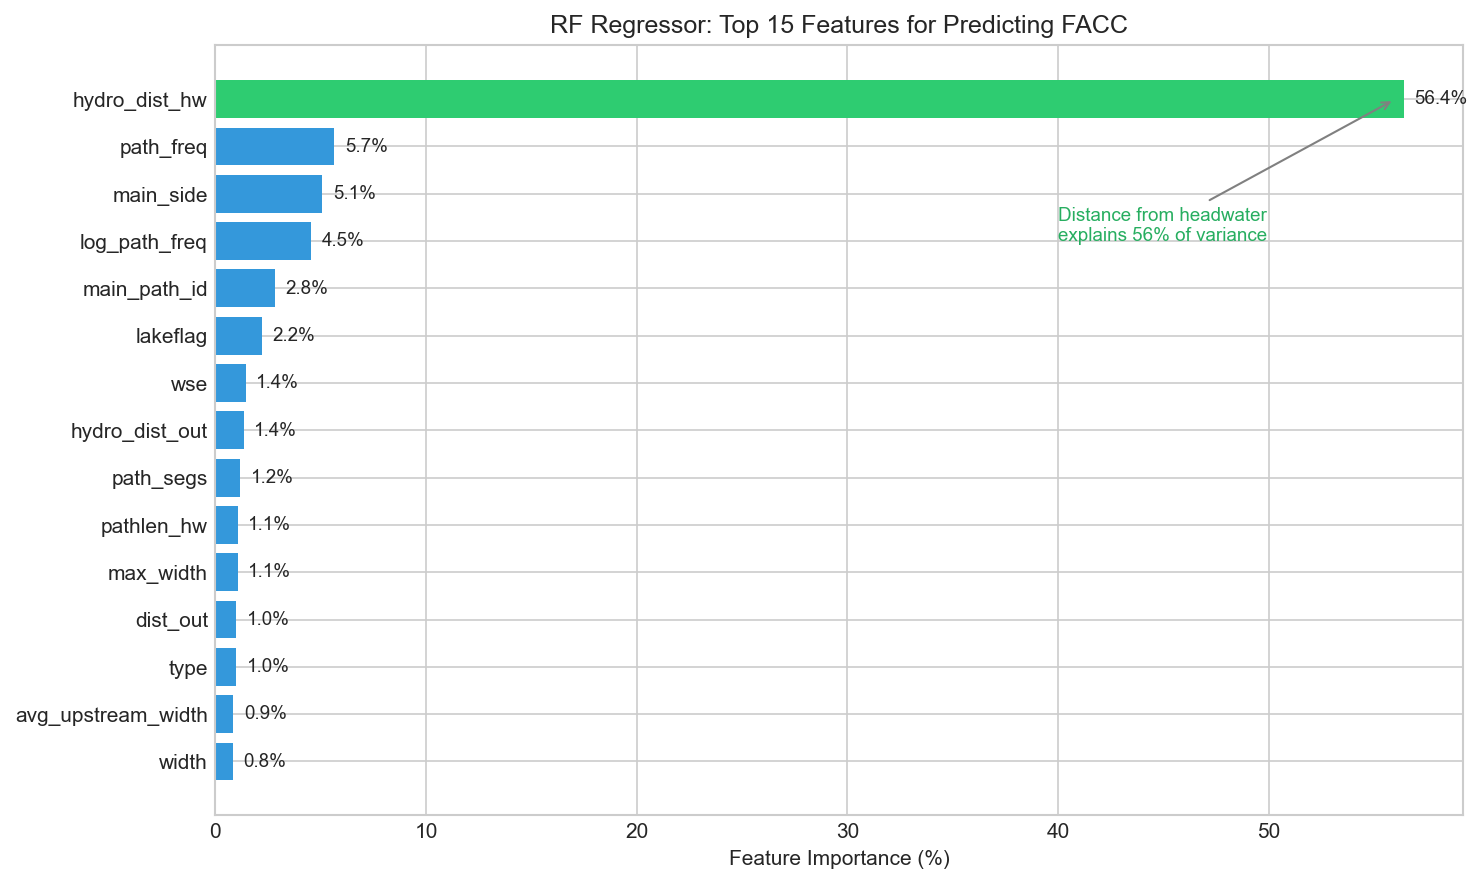
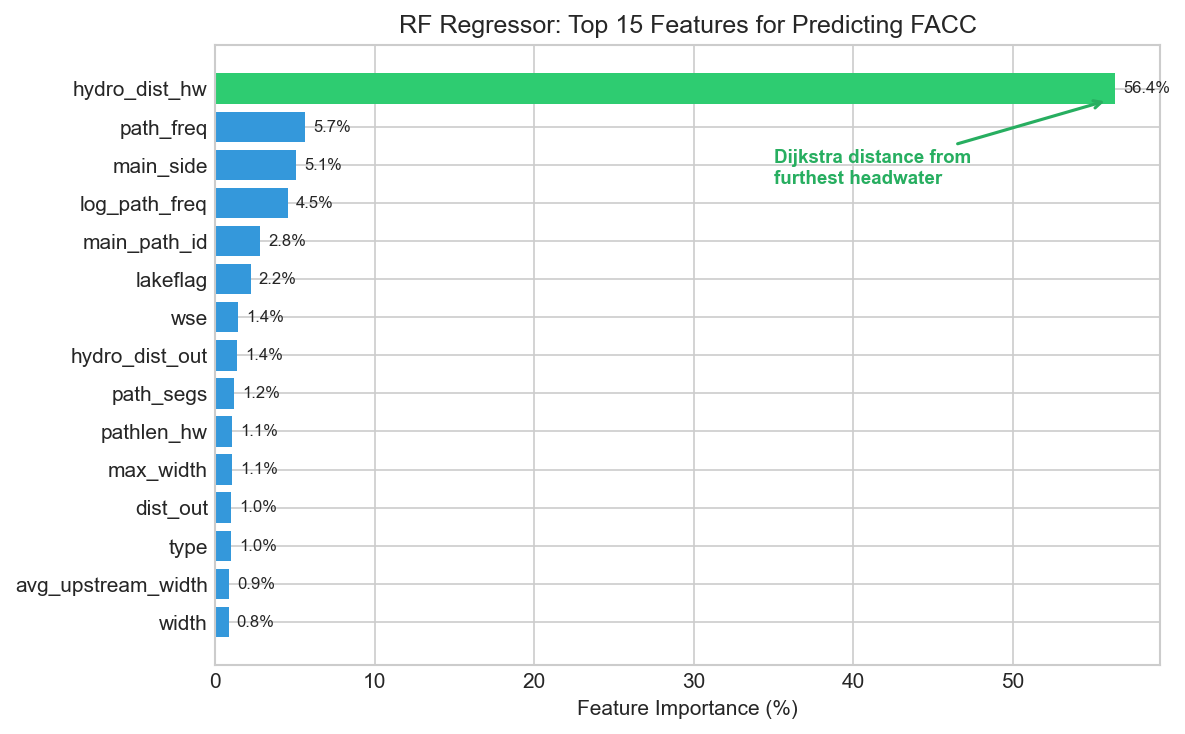
Improve figures and add hydro_dist_hw explanation
- Reduced figure widths, improved annotation placement
- Added detailed hydro_dist_hw vs dist_out comparison
- Explained why hydro_dist_hw predicts facc (same direction)
- Algorithm: Dijkstra from headwaters, max distance, reach_length weights

diff --git a/scripts/generate_facc_figures.py b/scripts/generate_facc_figures.py
@@ -24,7 +24,7 @@ def fig1_feature_importance():
     importance = pd.read_csv('output/facc_detection/rf_regressor_importance.csv')
     top15 = importance.head(15)
 
-    fig, ax = plt.subplots(figsize=(10, 6))
+    fig, ax = plt.subplots(figsize=(8, 5))
 
     colors = ['#2ecc71' if i == 0 else '#3498db' for i in range(len(top15))]
     bars = ax.barh(range(len(top15)), top15['importance'] * 100, color=colors)
@@ -38,13 +38,13 @@ def fig1_feature_importance():
     # Add percentage labels
     for i, (bar, val) in enumerate(zip(bars, top15['importance'])):
         ax.text(bar.get_width() + 0.5, bar.get_y() + bar.get_height()/2,
-                f'{val*100:.1f}%', va='center', fontsize=9)
+                f'{val*100:.1f}%', va='center', fontsize=8)
 
-    # Highlight hydro_dist_hw
-    ax.annotate('Distance from headwater\nexplains 56% of variance',
-                xy=(56, 0), xytext=(40, 3),
-                arrowprops=dict(arrowstyle='->', color='gray'),
-                fontsize=9, color='#27ae60')
+    # Highlight hydro_dist_hw - position annotation better
+    ax.annotate('Dijkstra distance from\nfurthest headwater',
+                xy=(56, 0.3), xytext=(35, 2.5),
+                arrowprops=dict(arrowstyle='->', color='#27ae60', lw=1.5),
+                fontsize=9, color='#27ae60', fontweight='bold')
 
     plt.tight_layout()
     plt.savefig(OUTPUT_DIR / 'fig1_feature_importance.png', bbox_inches='tight')
@@ -65,27 +65,33 @@ def fig2_hydro_dist_vs_facc():
     clean = df[~df['reach_id'].isin(anomaly_ids)].sample(n=min(10000, len(df)), random_state=42)
     anom = df[df['reach_id'].isin(anomaly_ids)]
 
-    fig, ax = plt.subplots(figsize=(10, 7))
+    fig, ax = plt.subplots(figsize=(8, 6))
 
     # Plot clean reaches
     ax.scatter(clean['hydro_dist_hw'] / 1000, clean['facc'],
-               alpha=0.3, s=5, c='#3498db', label=f'Clean reaches (n={len(clean):,})')
+               alpha=0.3, s=3, c='#3498db', label=f'Clean reaches (n={len(clean):,})')
 
     # Plot anomalies
     ax.scatter(anom['hydro_dist_hw'] / 1000, anom['facc'],
-               alpha=0.7, s=20, c='#e74c3c', label=f'Anomalies (n={len(anom):,})')
+               alpha=0.7, s=15, c='#e74c3c', label=f'Anomalies (n={len(anom):,})')
 
-    ax.set_xlabel('Distance from Headwater (km)')
+    ax.set_xlabel('hydro_dist_hw: Dijkstra Distance from Headwater (km)')
     ax.set_ylabel('Flow Accumulation (km²)')
     ax.set_yscale('log')
-    ax.set_title('FACC vs Network Position: Anomalies Stand Out')
-    ax.legend(loc='upper left')
+    ax.set_title('FACC vs Network Position')
+    ax.legend(loc='lower right')
 
-    # Add annotation
-    ax.annotate('Anomalies have facc values\n10-1000x too high for\ntheir network position',
-                xy=(200, 1e6), xytext=(400, 1e7),
-                arrowprops=dict(arrowstyle='->', color='#e74c3c'),
-                fontsize=10, color='#c0392b')
+    # Add annotation - position in upper area where anomalies cluster
+    ax.annotate('Anomalies: facc 10-1000x\ntoo high for position',
+                xy=(150, 2e6), xytext=(50, 5e6),
+                arrowprops=dict(arrowstyle='->', color='#c0392b', lw=1.5),
+                fontsize=9, color='#c0392b', fontweight='bold',
+                bbox=dict(boxstyle='round,pad=0.3', facecolor='white', alpha=0.8))
+
+    # Add explanation of the relationship
+    ax.text(0.98, 0.02, 'facc accumulates downstream → increases with hydro_dist_hw',
+            transform=ax.transAxes, ha='right', va='bottom',
+            fontsize=8, style='italic', color='#555')
 
     plt.tight_layout()
     plt.savefig(OUTPUT_DIR / 'fig2_hydro_dist_vs_facc.png', bbox_inches='tight')
@@ -106,7 +112,7 @@ def fig3_fwr_before_after():
     predictions['fwr_before'] = predictions['facc'] / predictions['width']
     predictions['fwr_after'] = predictions['predicted_facc'] / predictions['width']
 
-    fig, axes = plt.subplots(1, 2, figsize=(12, 5))
+    fig, axes = plt.subplots(1, 2, figsize=(9, 4))
 
     # Before
     ax1 = axes[0]
@@ -117,7 +123,7 @@ def fig3_fwr_before_after():
     ax1.set_xlabel('Flow-Width Ratio (FWR)')
     ax1.set_ylabel('Number of Reaches')
     ax1.set_title('BEFORE Correction')
-    ax1.legend()
+    ax1.legend(fontsize=8)
     ax1.set_xlim(0, 50000)
 
     # After
@@ -129,14 +135,13 @@ def fig3_fwr_before_after():
     ax2.set_xlabel('Flow-Width Ratio (FWR)')
     ax2.set_ylabel('Number of Reaches')
     ax2.set_title('AFTER Correction')
-    ax2.legend()
     ax2.set_xlim(0, 500)
 
     # Add normal range annotation
     ax2.axvspan(0, 100, alpha=0.2, color='green', label='Normal range')
-    ax2.legend()
+    ax2.legend(fontsize=8)
 
-    plt.suptitle('FWR Distribution: 1,725 Anomalous Reaches', fontsize=12, y=1.02)
+    plt.suptitle('FWR Distribution: 1,725 Anomalous Reaches', fontsize=11, y=1.02)
     plt.tight_layout()
     plt.savefig(OUTPUT_DIR / 'fig3_fwr_before_after.png', bbox_inches='tight')
     plt.close()
@@ -154,7 +159,7 @@ def fig4_detection_rules():
         'Other': 100
     }
 
-    fig, ax = plt.subplots(figsize=(8, 8))
+    fig, ax = plt.subplots(figsize=(7, 6))
 
     colors = ['#3498db', '#2ecc71', '#e74c3c', '#f39c12', '#9b59b6', '#95a5a6']
     explode = (0.05, 0, 0, 0, 0, 0)
@@ -166,22 +171,22 @@ def fig4_detection_rules():
         colors=colors,
         explode=explode,
         startangle=90,
-        textprops={'fontsize': 10}
+        textprops={'fontsize': 9}
     )
 
-    ax.set_title('Detection Rules: How 1,725 Anomalies Were Found', fontsize=12)
+    ax.set_title('Detection Rules: 1,725 Anomalies', fontsize=11)
 
     # Legend with descriptions
     legend_labels = [
         'fwr_drop (815): FWR drops >5x downstream',
-        'entry_point (466): facc jump + high ratio_to_median',
+        'entry_point (466): facc jump + ratio_to_median >40',
         'extreme_fwr (200): FWR > 15,000',
-        'jump_entry (99): disconnected + high facc',
+        'jump_entry (99): path_freq invalid + high facc',
         'facc_sum_inflation (45): facc > 3x upstream sum',
         'Other (100): additional rules'
     ]
-    ax.legend(wedges, legend_labels, loc='lower center', bbox_to_anchor=(0.5, -0.18),
-              fontsize=9)
+    ax.legend(wedges, legend_labels, loc='lower center', bbox_to_anchor=(0.5, -0.22),
+              fontsize=8)
 
     plt.tight_layout()
     plt.savefig(OUTPUT_DIR / 'fig4_detection_rules.png', bbox_inches='tight')
@@ -191,20 +196,20 @@ def fig4_detection_rules():
 
 def fig5_correction_logic():
     """Conceptual diagram showing RF correction logic."""
-    fig, ax = plt.subplots(figsize=(10, 6))
+    fig, ax = plt.subplots(figsize=(8, 5))
     ax.set_xlim(0, 10)
     ax.set_ylim(0, 7)
     ax.axis('off')
 
     # Title
-    ax.text(5, 6.5, 'RF Regressor Correction Logic', fontsize=14, ha='center', fontweight='bold')
+    ax.text(5, 6.5, 'RF Regressor Correction Logic', fontsize=12, ha='center', fontweight='bold')
 
     # Box 1: Input
     rect1 = plt.Rectangle((0.5, 4), 2.5, 1.5, facecolor='#ecf0f1', edgecolor='#2c3e50', linewidth=2)
     ax.add_patch(rect1)
-    ax.text(1.75, 5.1, 'Anomalous Reach', ha='center', fontsize=10, fontweight='bold')
-    ax.text(1.75, 4.6, 'hydro_dist_hw = 150 km\nwidth = 80 m\nfacc = 2,500,000 km²',
-            ha='center', fontsize=8, family='monospace')
+    ax.text(1.75, 5.1, 'Anomalous Reach', ha='center', fontsize=9, fontweight='bold')
+    ax.text(1.75, 4.55, 'hydro_dist_hw = 150 km\nwidth = 80 m\nfacc = 2,500,000 km²',
+            ha='center', fontsize=7, family='monospace')
 
     # Arrow 1
     ax.annotate('', xy=(3.5, 4.75), xytext=(3.0, 4.75),
@@ -213,9 +218,9 @@ def fig5_correction_logic():
     # Box 2: RF Model
     rect2 = plt.Rectangle((3.5, 4), 3, 1.5, facecolor='#3498db', edgecolor='#2c3e50', linewidth=2)
     ax.add_patch(rect2)
-    ax.text(5, 5.1, 'RF Regressor', ha='center', fontsize=10, fontweight='bold', color='white')
+    ax.text(5, 5.1, 'RF Regressor', ha='center', fontsize=9, fontweight='bold', color='white')
     ax.text(5, 4.5, '"At 150km from headwater,\nfacc should be ~5,000 km²"',
-            ha='center', fontsize=8, color='white', style='italic')
+            ha='center', fontsize=7, color='white', style='italic')
 
     # Arrow 2
     ax.annotate('', xy=(7, 4.75), xytext=(6.5, 4.75),
@@ -224,19 +229,19 @@ def fig5_correction_logic():
     # Box 3: Output
     rect3 = plt.Rectangle((7, 4), 2.5, 1.5, facecolor='#2ecc71', edgecolor='#2c3e50', linewidth=2)
     ax.add_patch(rect3)
-    ax.text(8.25, 5.1, 'Corrected Value', ha='center', fontsize=10, fontweight='bold')
-    ax.text(8.25, 4.6, 'facc = 5,000 km²\nFWR: 31,250 → 63',
-            ha='center', fontsize=8, family='monospace')
+    ax.text(8.25, 5.1, 'Corrected Value', ha='center', fontsize=9, fontweight='bold')
+    ax.text(8.25, 4.55, 'facc = 5,000 km²\nFWR: 31,250 → 63',
+            ha='center', fontsize=7, family='monospace')
 
     # Training data box
     rect4 = plt.Rectangle((2, 1.5), 6, 1.8, facecolor='#f8f9fa', edgecolor='#95a5a6',
                            linewidth=1, linestyle='--')
     ax.add_patch(rect4)
-    ax.text(5, 3, 'Training: 247,000 Clean Reaches', ha='center', fontsize=10, fontweight='bold')
+    ax.text(5, 3, 'Training: 247,000 Clean Reaches', ha='center', fontsize=9, fontweight='bold')
     ax.text(5, 2.4, 'Model learns: "reaches at position X typically have facc Y"',
-            ha='center', fontsize=9, style='italic')
-    ax.text(5, 1.9, 'hydro_dist_hw explains 56% of variance',
-            ha='center', fontsize=9, color='#27ae60')
+            ha='center', fontsize=8, style='italic')
+    ax.text(5, 1.9, 'hydro_dist_hw (Dijkstra from headwater) explains 56%',
+            ha='center', fontsize=8, color='#27ae60')
 
     # Arrow from training to model
     ax.annotate('', xy=(5, 4), xytext=(5, 3.3),

diff --git a/docs/facc_correction_summary.md b/docs/facc_correction_summary.md
@@ -197,6 +197,26 @@ When it sees an anomalous reach at `hydro_dist_hw = 150 km` with `facc = 2,500,0
 
 **Key insight:** `hydro_dist_hw` alone explains 56% of variance - network position is the dominant predictor.
 
+### Why hydro_dist_hw works (not dist_out)
+
+| Variable | Algorithm | Direction |
+|----------|-----------|-----------|
+| `dist_out` (v17b) | BFS upstream from outlets | Decreases downstream |
+| `hydro_dist_hw` (v17c) | Dijkstra downstream from headwaters | **Increases downstream** |
+
+**hydro_dist_hw computation:**
+1. Build directed graph from SWORD topology (nodes = reaches, edges = flow)
+2. Identify headwaters (reaches with no upstream neighbors)
+3. For each headwater, run Dijkstra downstream using `reach_length` as edge weights
+4. For each reach, keep the **maximum distance from any headwater** that can reach it
+
+**Why it predicts facc:**
+- facc **accumulates downstream** from headwaters
+- `hydro_dist_hw` **increases downstream** from headwaters
+- They move in the **same direction**
+
+`dist_out` moves opposite to facc, so it's less intuitive for prediction.
+
 ### Feature Categories (59 total)
 
 | Category | Count | Examples |
